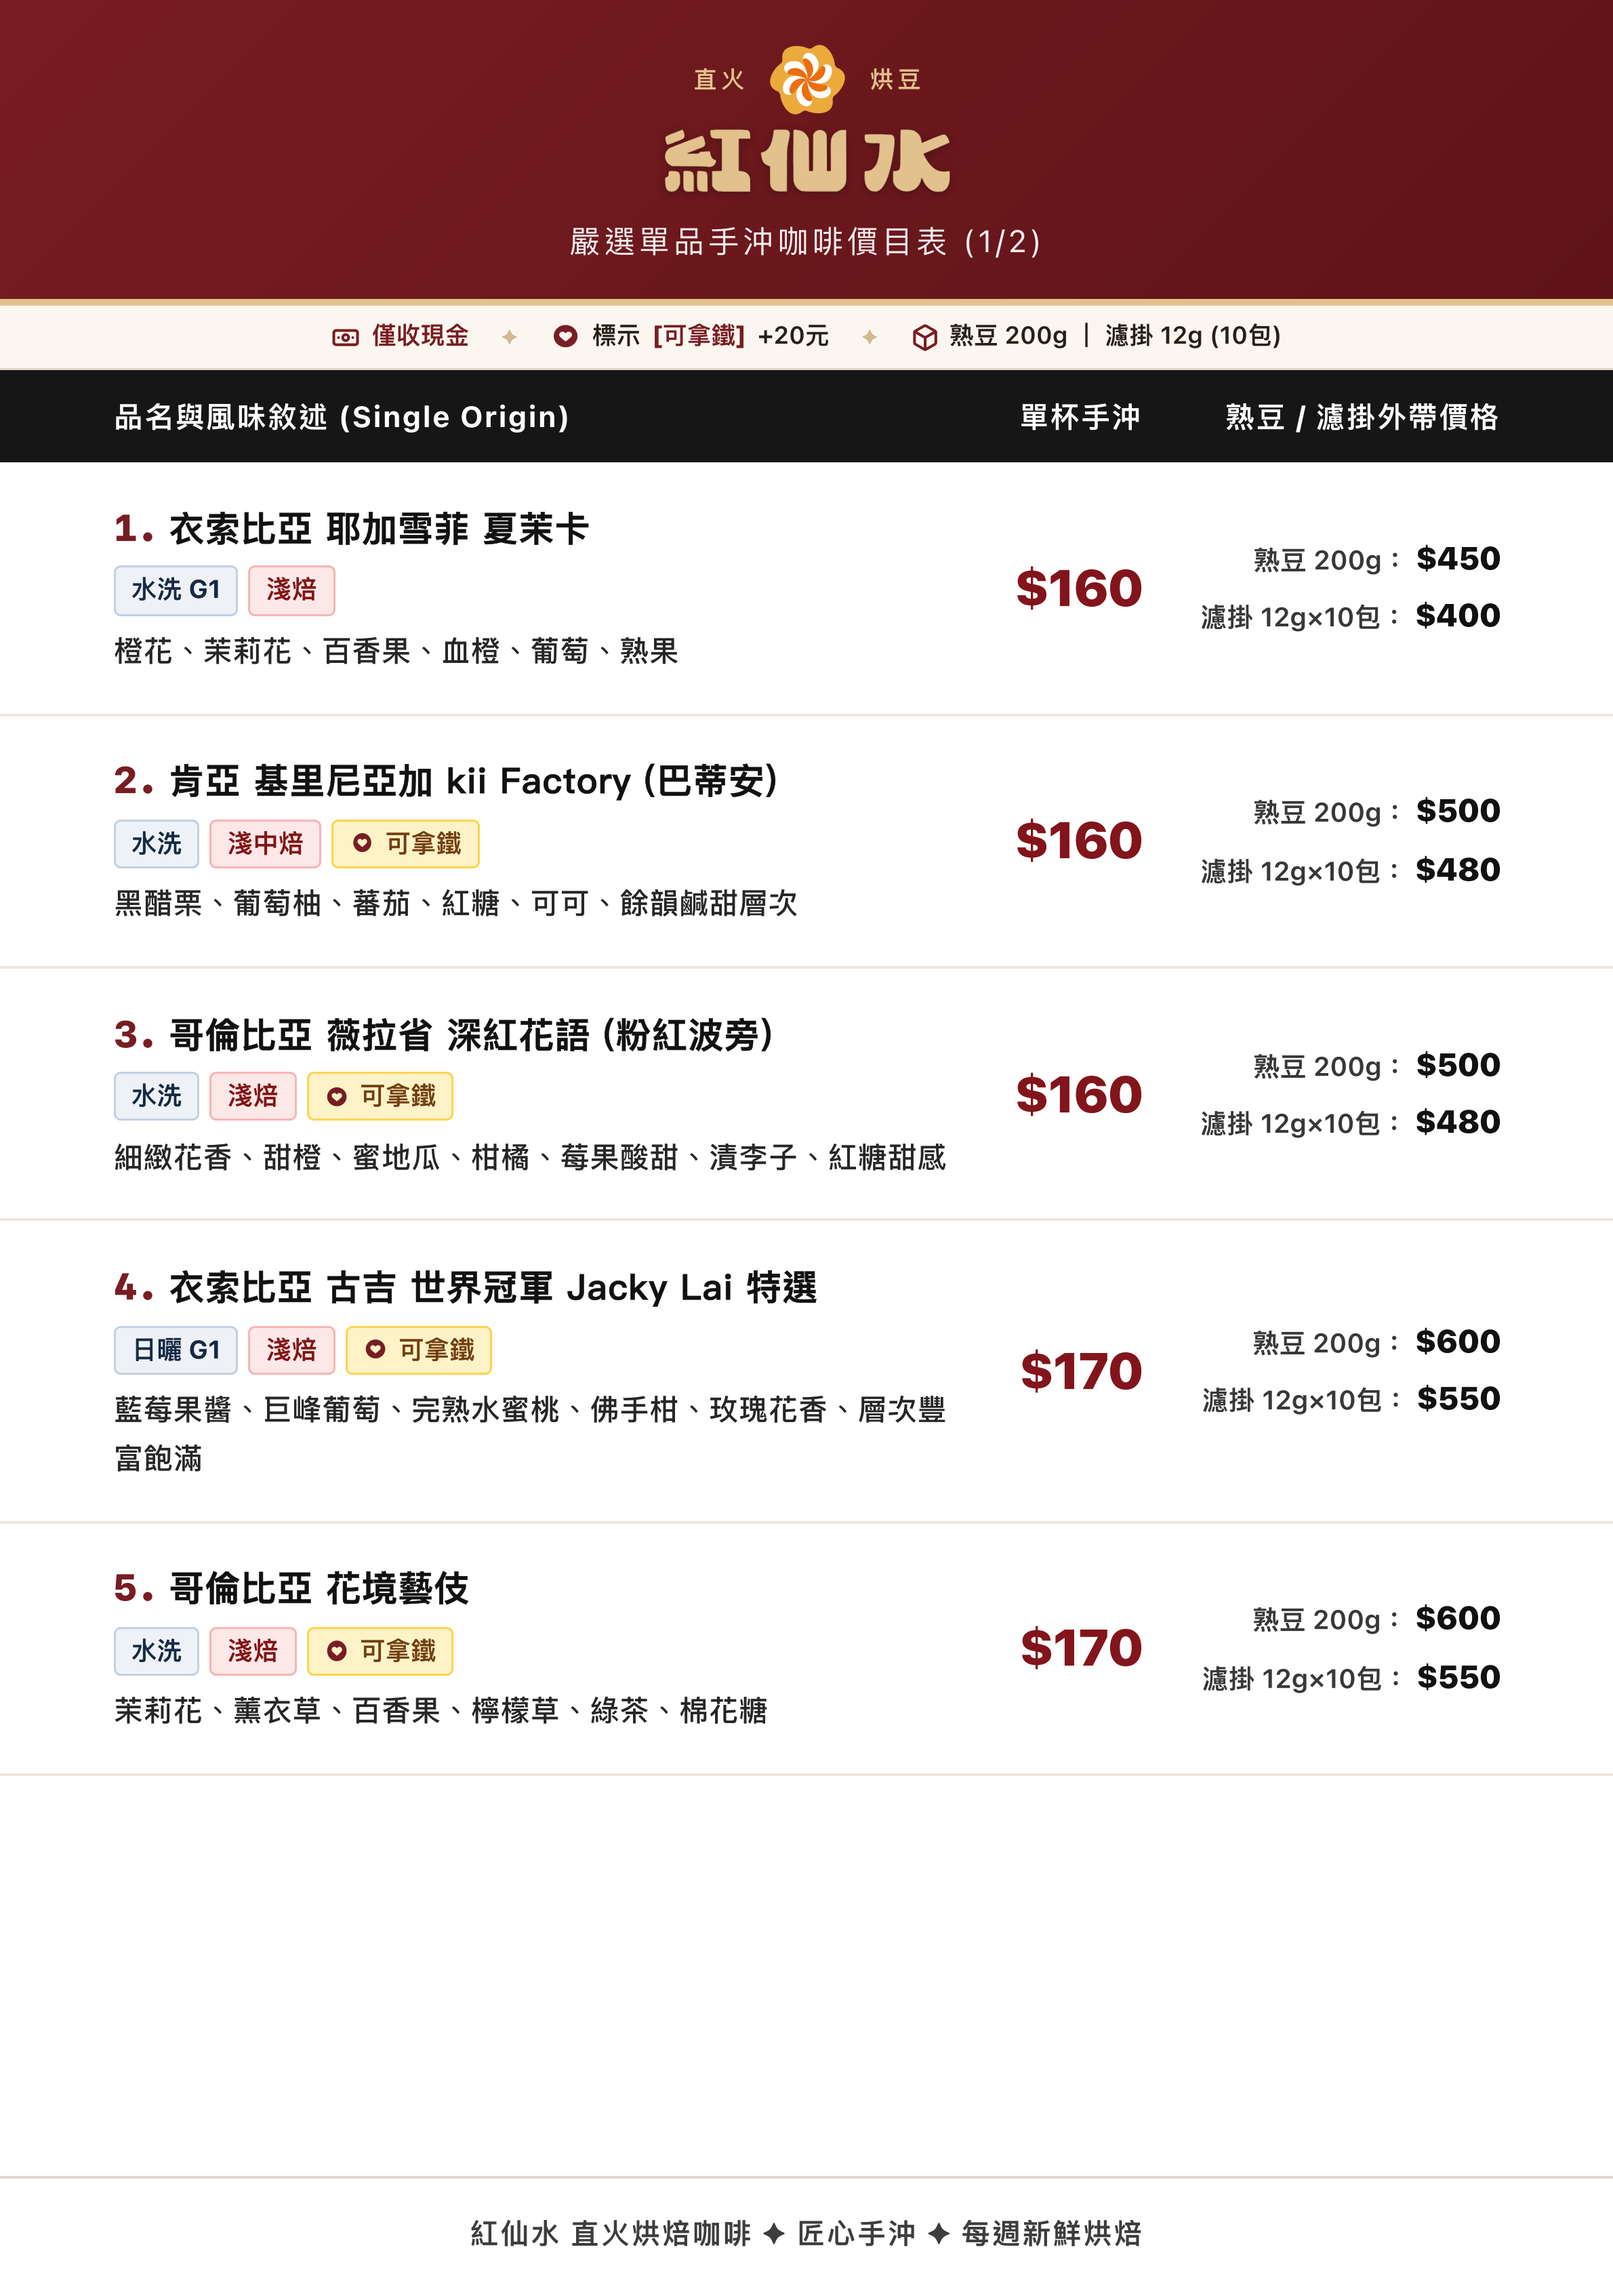
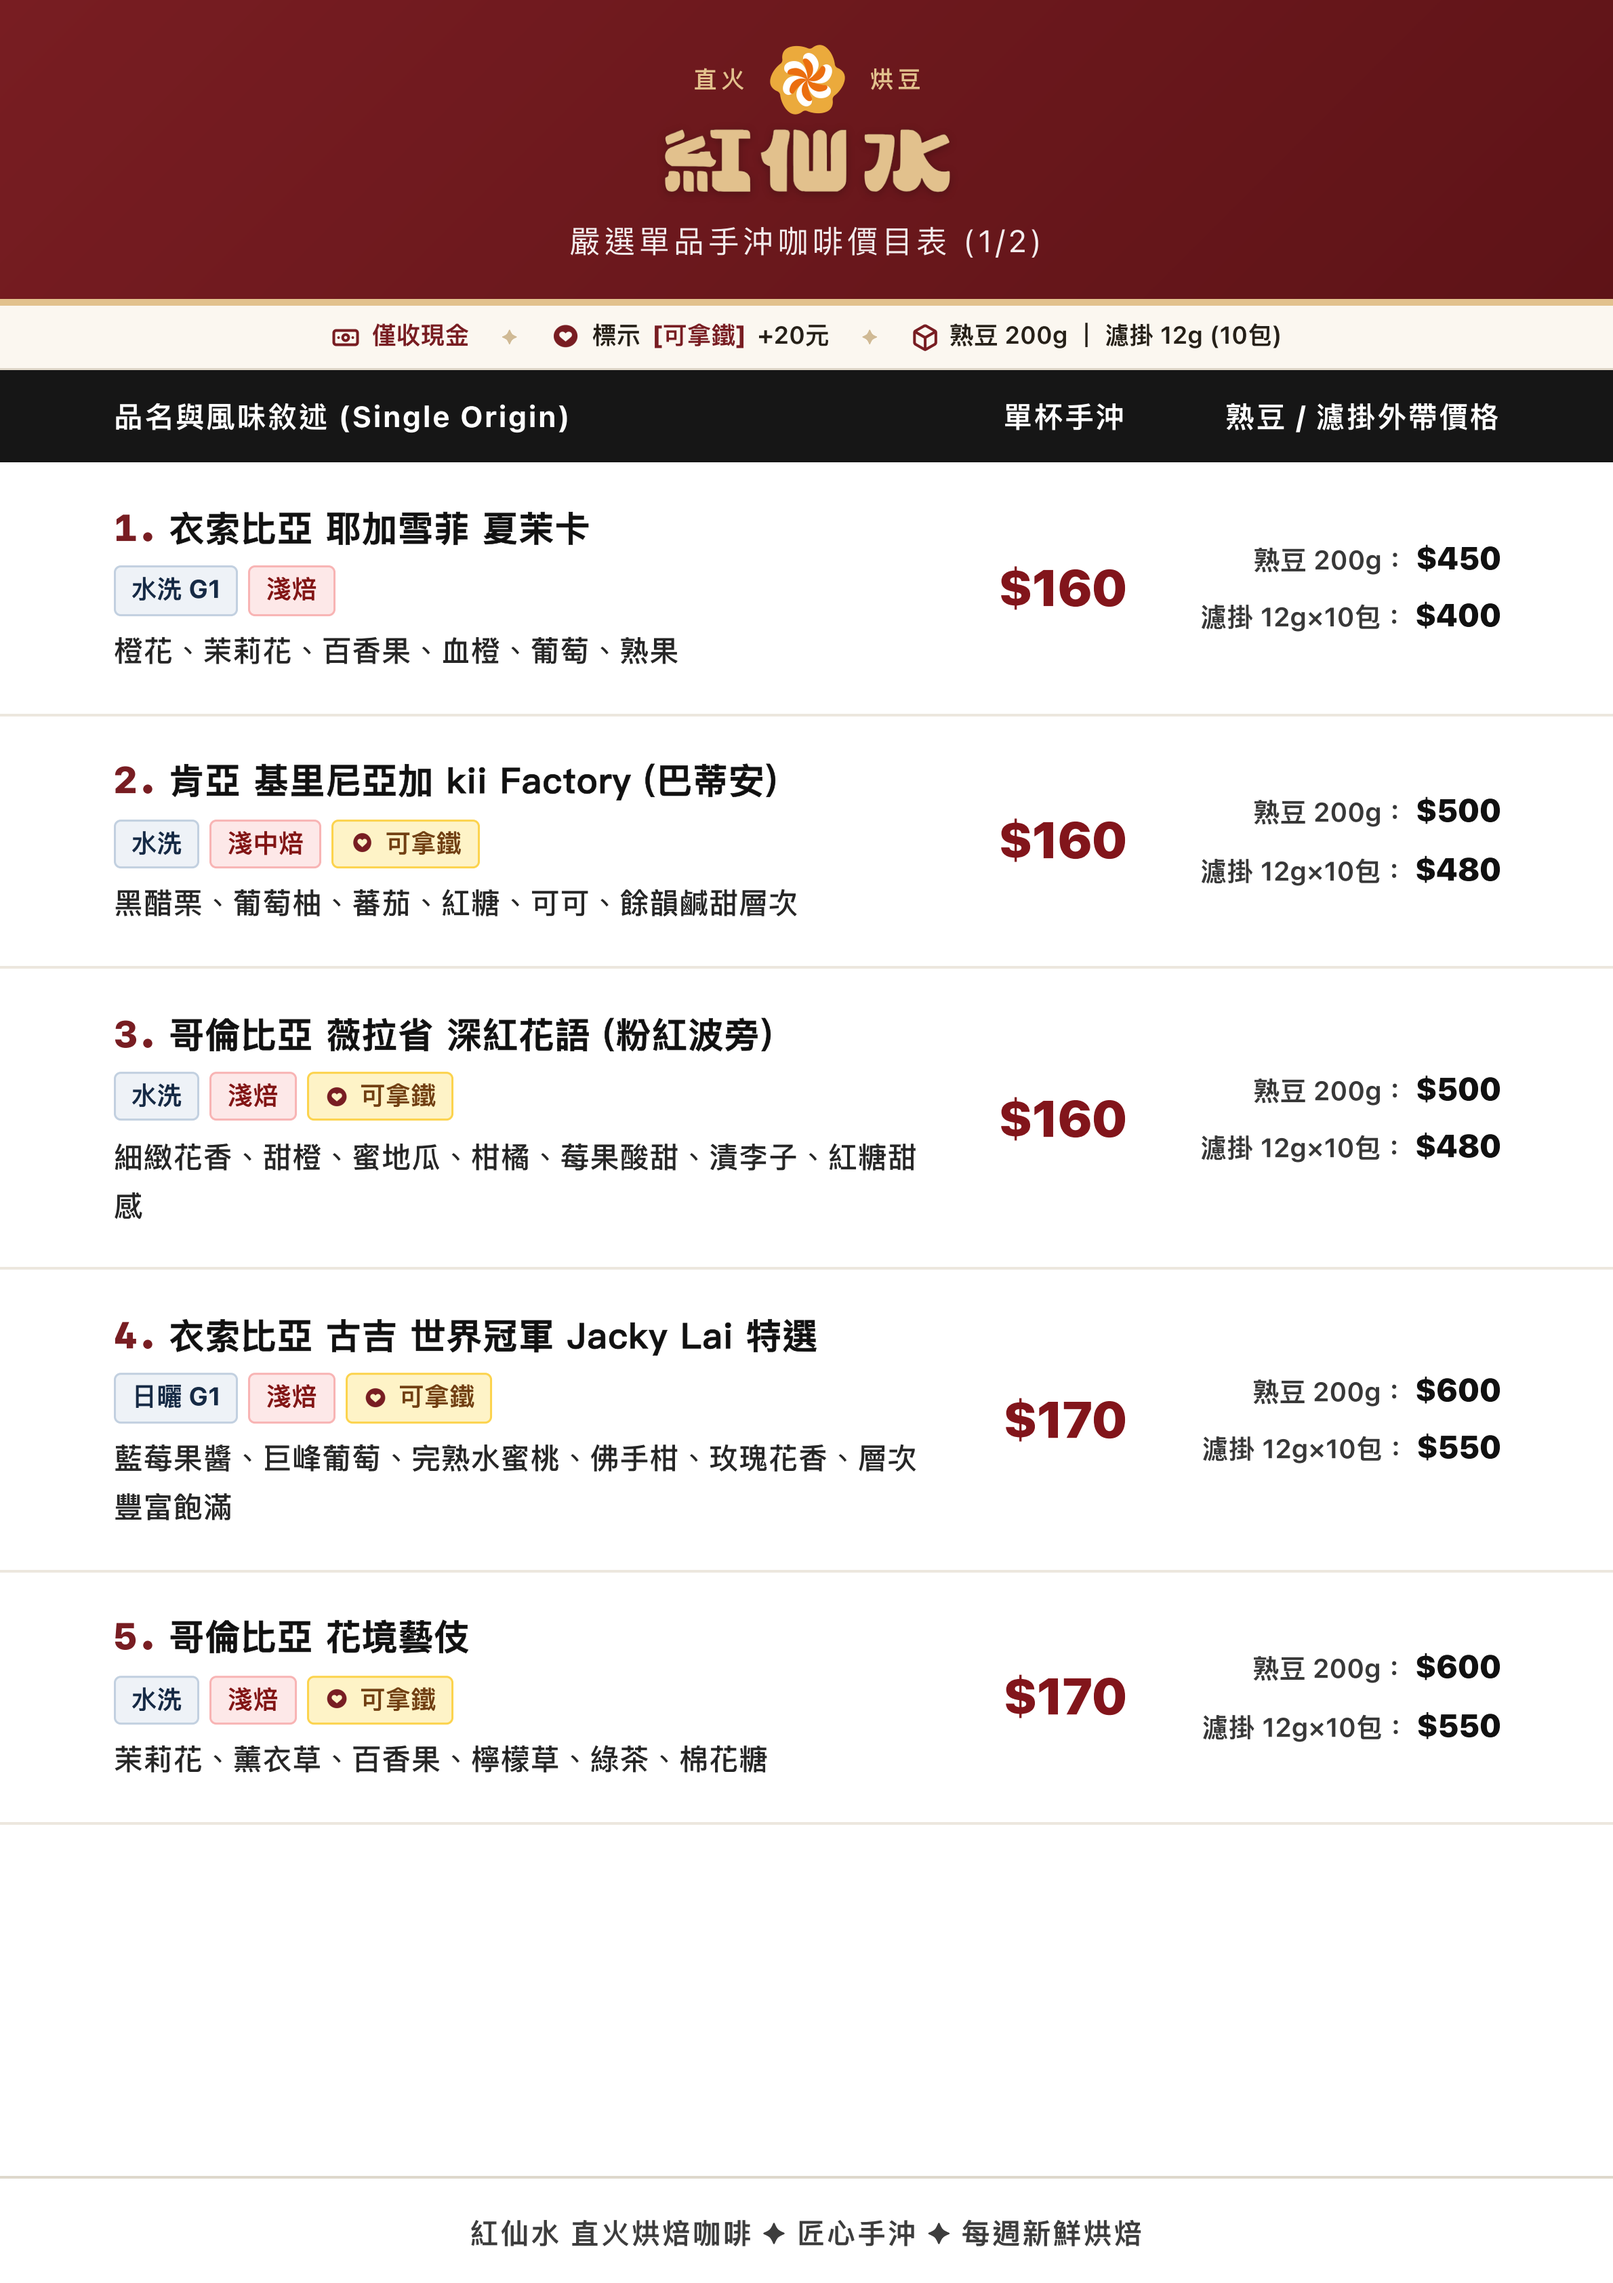
style(layout): expand 3-column gap to 38px for spacious breathing room

diff --git a/theme-hybrid.css b/theme-hybrid.css
@@ -112,8 +112,8 @@ body.theme-hybrid .hybrid-notice-heart-icon {
 /* 三欄式表格標頭 (Table Header) - 黑底白字大器錨定 */
 body.theme-hybrid .hybrid-table-header {
   display: grid;
-  grid-template-columns: minmax(0, 1fr) 72px 168px;
-  column-gap: 20px;
+  grid-template-columns: minmax(0, 1fr) 64px 146px;
+  column-gap: 38px;
   align-items: center;
   padding: 12.7px 18.7px;
   background-color: #111111;
@@ -149,8 +149,8 @@ body.theme-hybrid .hybrid-coffee-list {
 /* 單一品項橫列 (3 欄) - 乾淨白卡，無次級內框 */
 body.theme-hybrid .hybrid-item-row {
   display: grid;
-  grid-template-columns: minmax(0, 1fr) 72px 168px;
-  column-gap: 20px;
+  grid-template-columns: minmax(0, 1fr) 64px 146px;
+  column-gap: 38px;
   align-items: center;
   padding: 13.6px 18.7px;
   background: #ffffff;

diff --git a/style.css b/style.css
@@ -663,8 +663,8 @@ body.mode-continuous .sheet-page-indicator {
   background-color: #161616;
   color: #ffffff;
   display: grid;
-  grid-template-columns: minmax(0, 1fr) 68px 148px;
-  column-gap: 28px;
+  grid-template-columns: minmax(0, 1fr) 64px 146px;
+  column-gap: 38px;
   padding: 12.7px 56px;
   font-size: 1.05rem;
   font-weight: 700;
@@ -695,8 +695,8 @@ body.mode-continuous .sheet-page-indicator {
 
 .coffee-item-row {
   display: grid;
-  grid-template-columns: minmax(0, 1fr) 68px 148px;
-  column-gap: 28px;
+  grid-template-columns: minmax(0, 1fr) 64px 146px;
+  column-gap: 38px;
   padding: 14.4px 56px;
   background: transparent;
   border: none;
